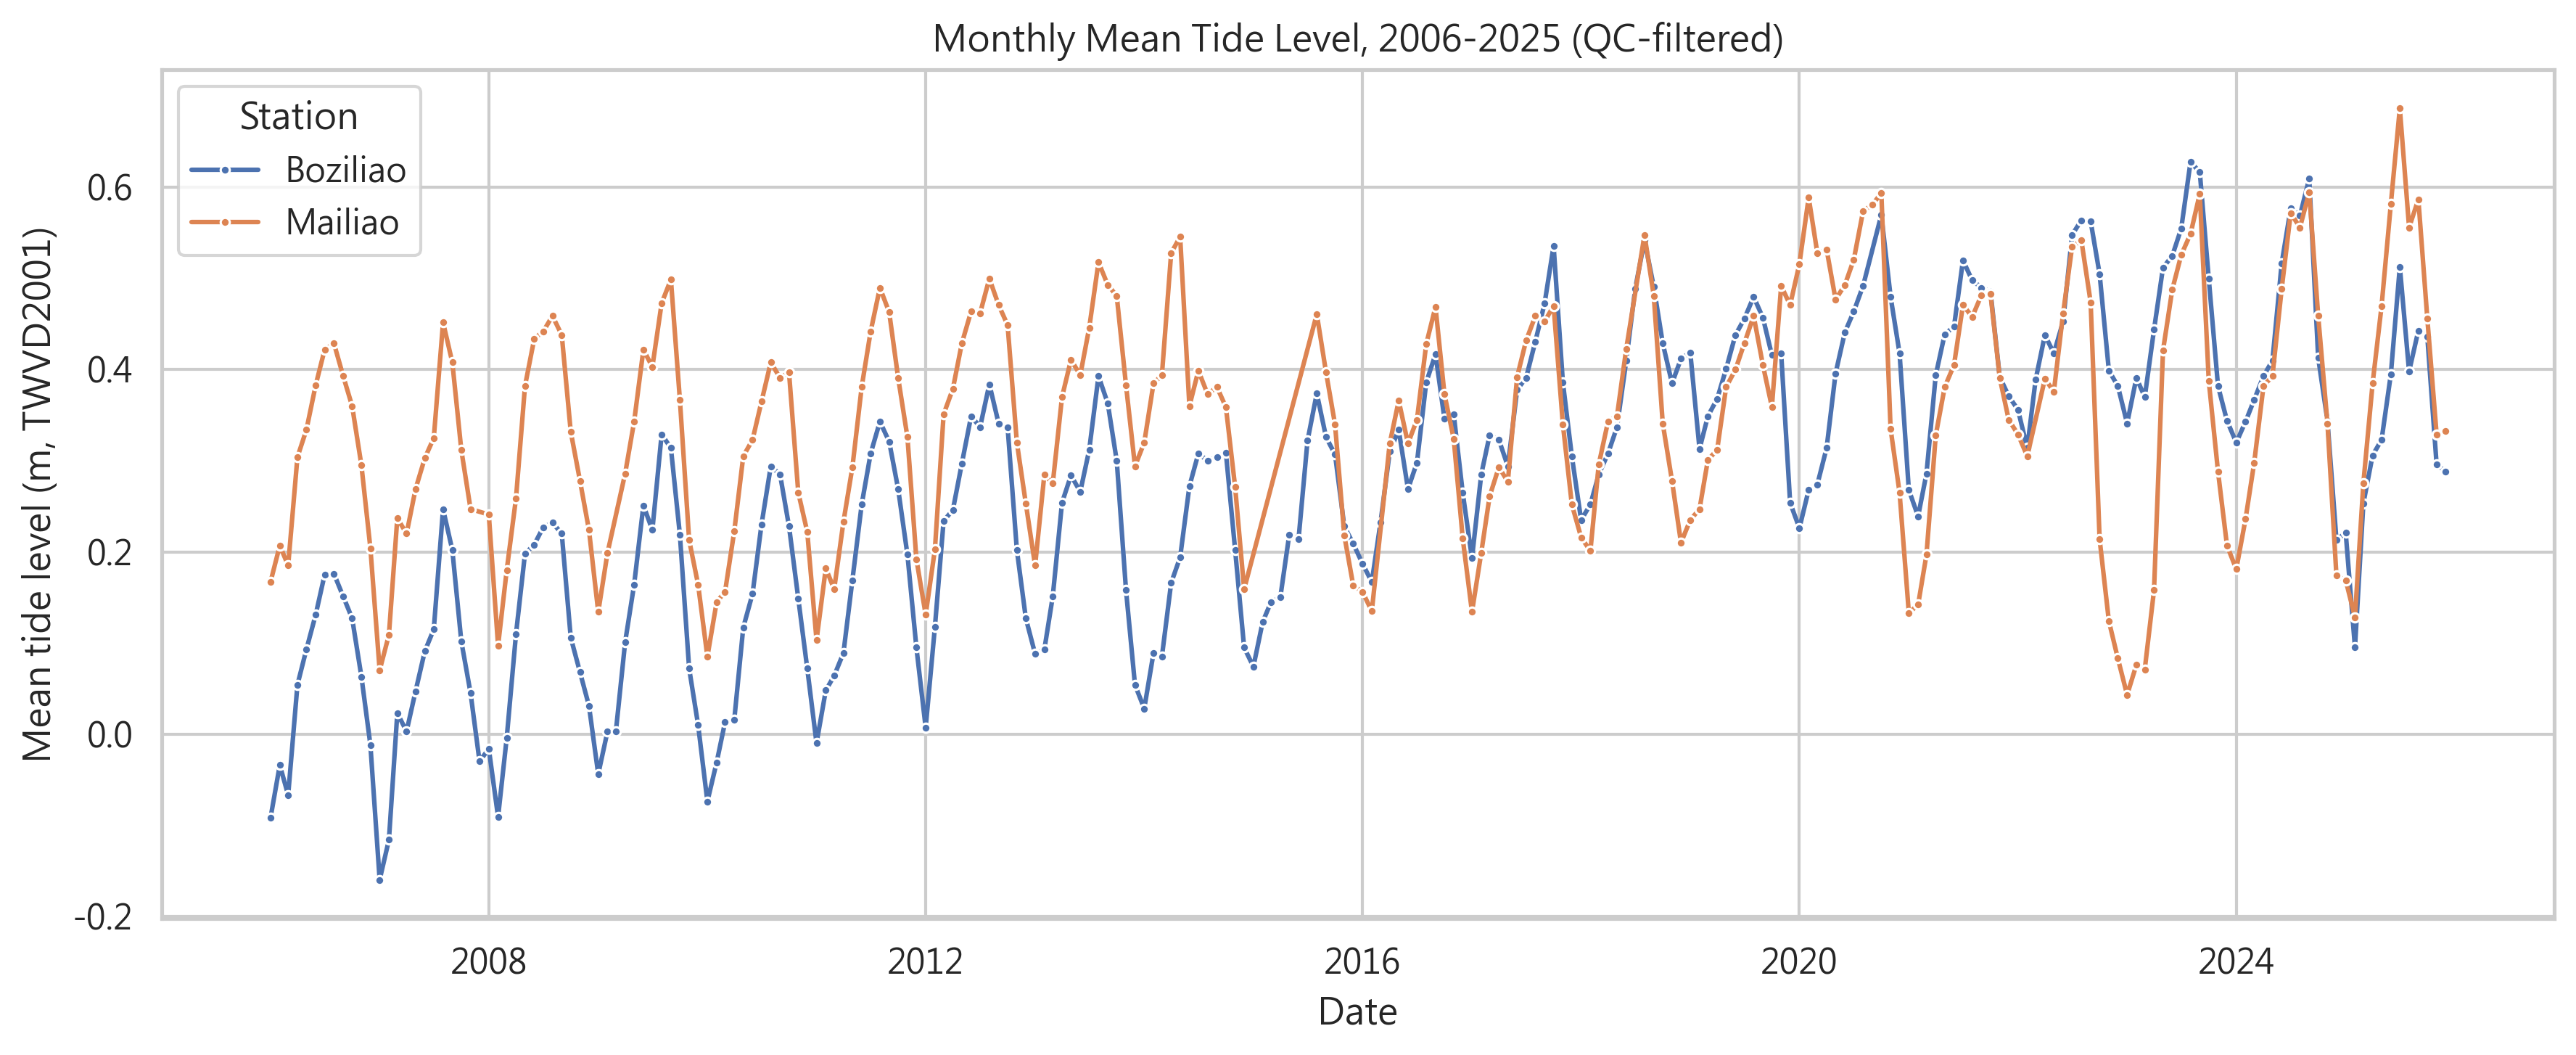
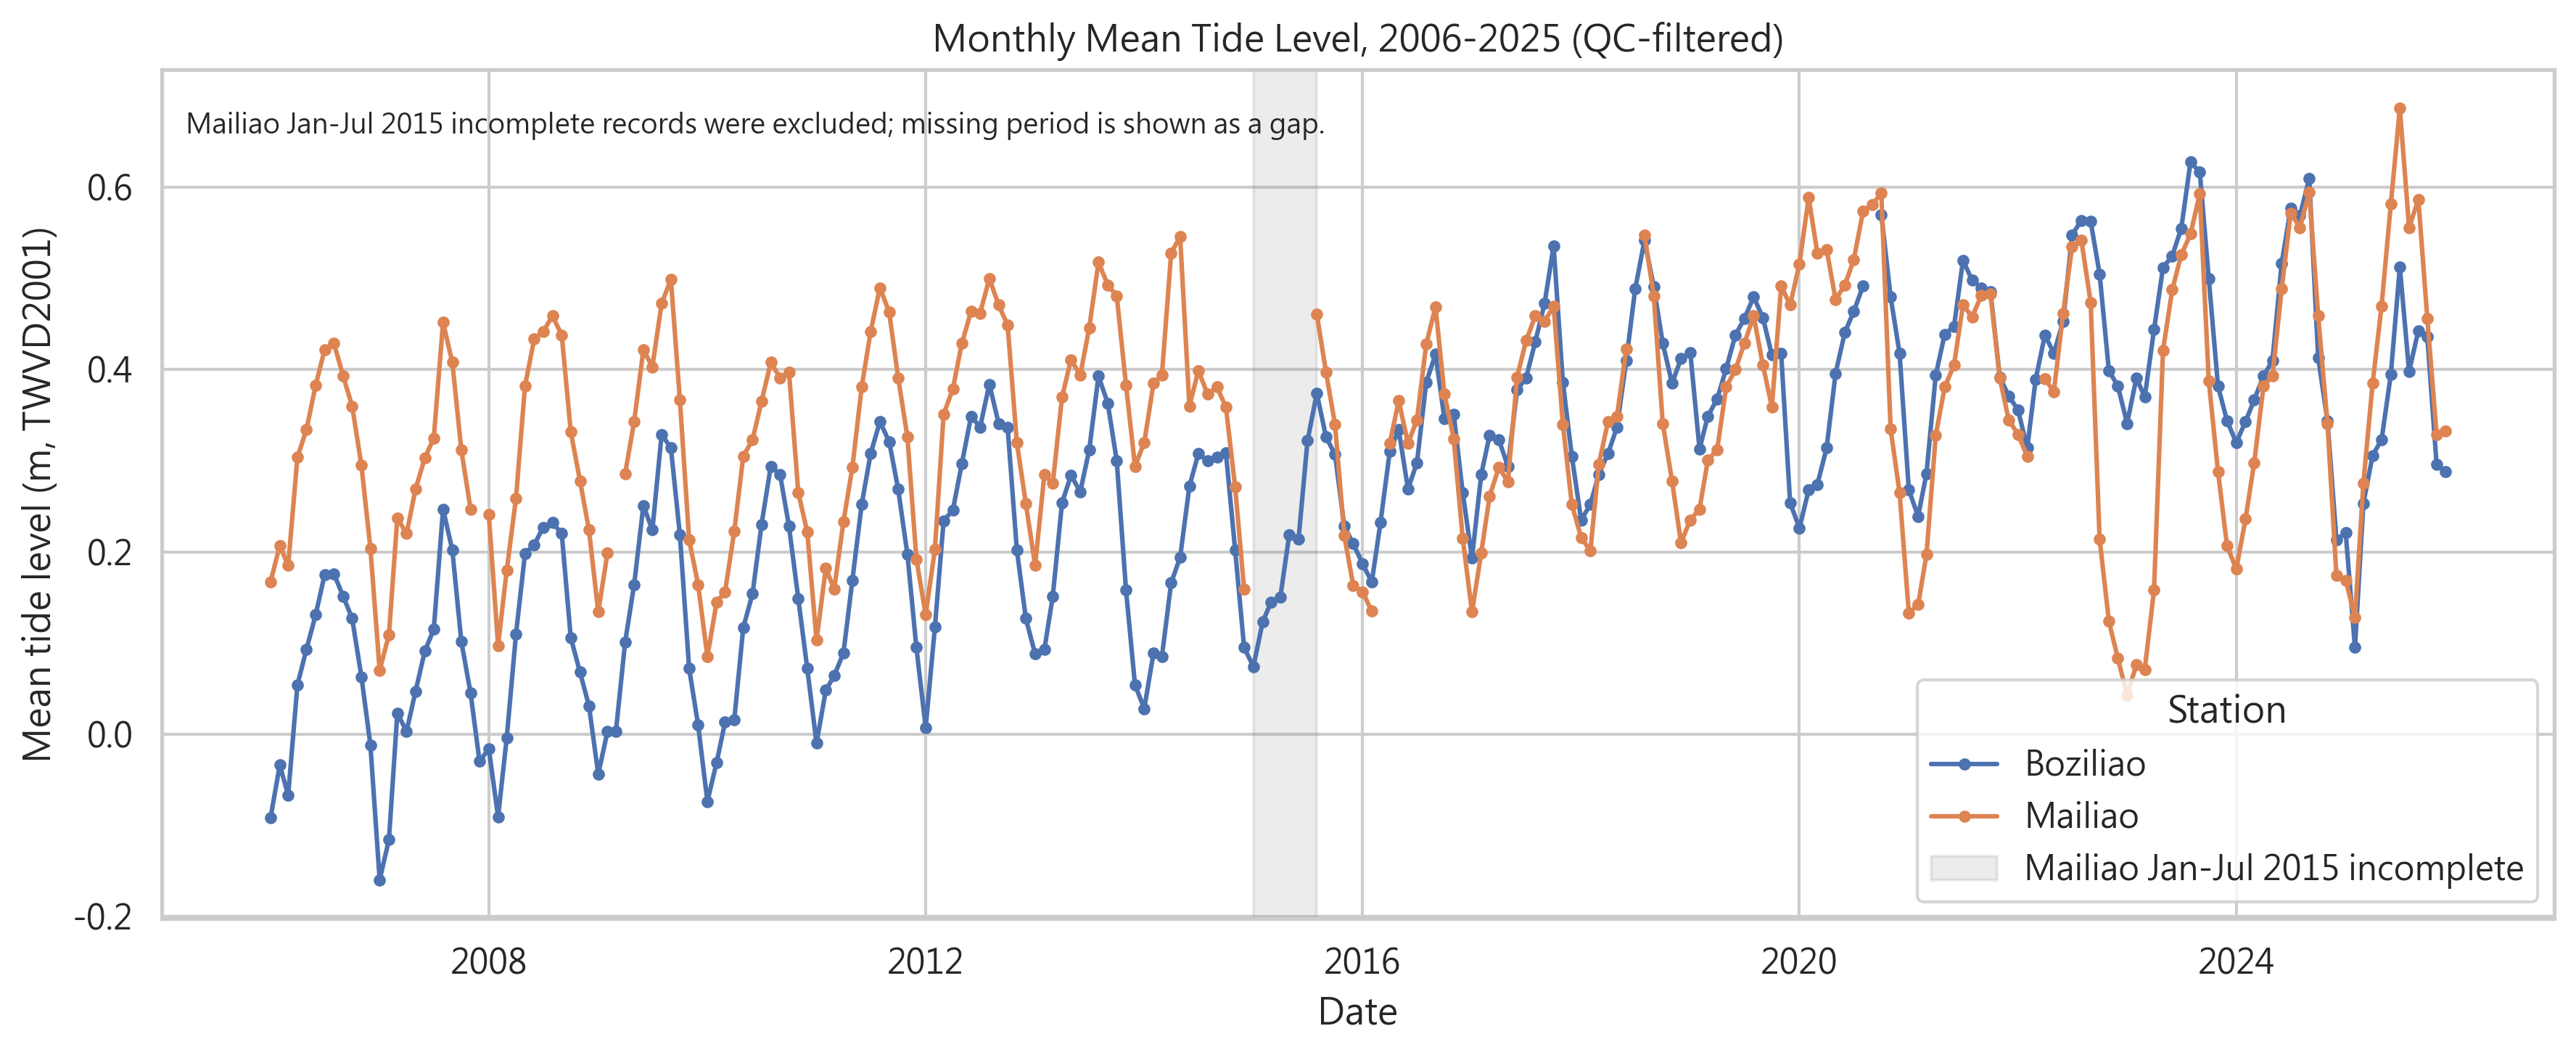
Show QC monthly gaps and refine histogram bins
Preserve the monthly date index for QC-filtered time series, show Mailiao Jan-Jul 2015 as a gap, add valid month counts, and use interpretable manual histogram bins for annual maximum high-water plots.

diff --git a/scripts/02_analyze_yunlin_tides.py b/scripts/02_analyze_yunlin_tides.py
@@ -140,7 +140,10 @@ def validate_inputs(
 
 
 def plot_eda(monthly_tide: pd.DataFrame, annual_tide: pd.DataFrame) -> None:
-    monthly_tide_qc = monthly_tide[monthly_tide["is_valid_monthly_mean_for_eda"]].copy()
+    monthly_plot_df = monthly_tide.copy()
+    incomplete_mask = ~monthly_plot_df["is_valid_monthly_mean_for_eda"]
+    monthly_plot_df.loc[incomplete_mask, "mean_tide_level"] = np.nan
+    monthly_analysis_df = monthly_tide[monthly_tide["is_valid_monthly_mean_for_eda"]].copy()
 
     plt.figure(figsize=(12, 5))
     sns.lineplot(
@@ -171,25 +174,41 @@ def plot_eda(monthly_tide: pd.DataFrame, annual_tide: pd.DataFrame) -> None:
     plt.legend(title="Station")
     save_fig("02_monthly_tide_boxplot_raw.png")
 
-    plt.figure(figsize=(12, 5))
-    sns.lineplot(
-        data=monthly_tide_qc,
-        x="date",
-        y="mean_tide_level",
-        hue="station_label",
-        marker="o",
-        linewidth=1.5,
-        markersize=3,
+    fig, ax = plt.subplots(figsize=(12, 5))
+    for station_label, group in monthly_plot_df.groupby("station_label"):
+        group = group.sort_values("date")
+        ax.plot(
+            group["date"],
+            group["mean_tide_level"],
+            marker="o",
+            linewidth=1.5,
+            markersize=3,
+            label=station_label,
+        )
+    ax.axvspan(
+        pd.Timestamp("2015-01-01"),
+        pd.Timestamp("2015-07-31"),
+        color="gray",
+        alpha=0.15,
+        label="Mailiao Jan-Jul 2015 incomplete",
     )
     plt.title("Monthly Mean Tide Level, 2006-2025 (QC-filtered)")
     plt.xlabel("Date")
     plt.ylabel("Mean tide level (m, TWVD2001)")
     plt.legend(title="Station")
+    plt.text(
+        0.01,
+        0.95,
+        "Mailiao Jan-Jul 2015 incomplete records were excluded; missing period is shown as a gap.",
+        transform=plt.gca().transAxes,
+        fontsize=9,
+        verticalalignment="top",
+    )
     save_fig("15_monthly_mean_tide_timeseries_qc.png")
 
     plt.figure(figsize=(10, 5))
     sns.boxplot(
-        data=monthly_tide_qc,
+        data=monthly_analysis_df,
         x="month",
         y="mean_tide_level",
         hue="station_label",
@@ -463,6 +482,32 @@ def write_incomplete_monthly_records(monthly_tide: pd.DataFrame) -> pd.DataFrame
         encoding="utf-8-sig",
     )
     return incomplete_records
+
+
+def write_valid_month_counts(monthly_tide: pd.DataFrame) -> pd.DataFrame:
+    monthly_counts = monthly_tide.copy()
+    monthly_counts["valid_for_monthly_eda"] = (
+        monthly_counts["is_valid_monthly_mean_for_eda"] & monthly_counts["mean_tide_level"].notna()
+    )
+    valid_month_counts = (
+        monthly_counts.groupby(["station_name", "station_label", "year"])
+        .agg(
+            valid_month_count=("valid_for_monthly_eda", "sum"),
+            incomplete_month_count=(
+                "data_quality_flag",
+                lambda values: (values == "partial_or_incomplete_record").sum(),
+            ),
+            missing_mean_tide_count=("mean_tide_level", lambda values: values.isna().sum()),
+        )
+        .reset_index()
+    )
+    valid_month_counts["meets_10_month_threshold"] = valid_month_counts["valid_month_count"] >= 10
+    valid_month_counts.to_csv(
+        TABLE_DIR / "valid_month_counts.csv",
+        index=False,
+        encoding="utf-8-sig",
+    )
+    return valid_month_counts
 
 
 def write_top_extreme_years(annual_tide: pd.DataFrame) -> pd.DataFrame:
@@ -828,6 +873,7 @@ def write_summary(
     summary_statistics: pd.DataFrame,
     monthly_outliers: pd.DataFrame,
     incomplete_monthly_records: pd.DataFrame,
+    valid_month_counts: pd.DataFrame,
     annual_outliers: pd.DataFrame,
     top_extremes: pd.DataFrame,
     mailiao_2018_monthly_check: pd.DataFrame,
@@ -869,6 +915,10 @@ def write_summary(
         incomplete_monthly_records.to_markdown(index=False)
         if not incomplete_monthly_records.empty
         else "No incomplete monthly records flagged.",
+        "",
+        "## Valid Monthly Record Counts",
+        "",
+        valid_month_counts.to_markdown(index=False),
         "",
         (
             "Mailiao 2015 Jan-Jul records are flagged as partial or incomplete monthly records "
@@ -930,6 +980,7 @@ def write_summary(
         "## Data Quality Notes",
         "",
         "- Raw monthly figures are retained for transparency and data-quality inspection. QC-filtered monthly figures exclude Mailiao Jan-Jul 2015 partial/incomplete records and are used as the main figures for monthly mean tide and seasonality interpretation.",
+        "- The QC-filtered monthly time series keeps the full monthly date index and sets Mailiao Jan-Jul 2015 mean tide levels to NaN, so the missing period appears as a line gap without interpolation or filling.",
         "- Monthly-mean and seasonality figures use QC-filtered data, while annual-extreme analyses retain the original annual maximum records.",
         "- The HHW-HAT plot highlights Mailiao 2018 as an influential extreme year.",
         "- Return level plots with log x-axis are recommended for hydrologic frequency interpretation.",
@@ -966,6 +1017,7 @@ def analyze() -> None:
     plot_eda(monthly_tide, annual_tide)
     monthly_outliers, annual_outliers = write_outlier_tables(monthly_tide, annual_tide)
     incomplete_monthly_records = write_incomplete_monthly_records(monthly_tide)
+    valid_month_counts = write_valid_month_counts(monthly_tide)
     plot_monthly_outliers(monthly_tide, monthly_outliers)
     top_extremes = write_top_extreme_years(annual_tide)
     mailiao_2018_monthly_check = write_mailiao_2018_monthly_check(monthly_tide)
@@ -979,6 +1031,7 @@ def analyze() -> None:
         summary_statistics,
         monthly_outliers,
         incomplete_monthly_records,
+        valid_month_counts,
         annual_outliers,
         top_extremes,
         mailiao_2018_monthly_check,

diff --git a/outputs/analysis_summary.md b/outputs/analysis_summary.md
@@ -42,6 +42,51 @@ The analysis uses relative water levels referenced to TWVD2001.
 | 麥寮潮位站          | Mailiao         |   2015 |       6 | 2015-06-01 00:00:00 |             1.022 |                        nan |                     nan |                    nan |                nan | partial_or_incomplete_record |
 | 麥寮潮位站          | Mailiao         |   2015 |       7 | 2015-07-01 00:00:00 |             1.352 |                        nan |                     nan |                    nan |                nan | partial_or_incomplete_record |
 
+## Valid Monthly Record Counts
+
+| station_name   | station_label   |   year |   valid_month_count |   incomplete_month_count |   missing_mean_tide_count | meets_10_month_threshold   |
+|:---------------|:----------------|-------:|--------------------:|-------------------------:|--------------------------:|:---------------------------|
+| 萡子寮潮位站         | Boziliao        |   2006 |                  12 |                        0 |                         0 | True                       |
+| 萡子寮潮位站         | Boziliao        |   2007 |                  12 |                        0 |                         0 | True                       |
+| 萡子寮潮位站         | Boziliao        |   2008 |                  12 |                        0 |                         0 | True                       |
+| 萡子寮潮位站         | Boziliao        |   2009 |                  12 |                        0 |                         0 | True                       |
+| 萡子寮潮位站         | Boziliao        |   2010 |                  12 |                        0 |                         0 | True                       |
+| 萡子寮潮位站         | Boziliao        |   2011 |                  12 |                        0 |                         0 | True                       |
+| 萡子寮潮位站         | Boziliao        |   2012 |                  12 |                        0 |                         0 | True                       |
+| 萡子寮潮位站         | Boziliao        |   2013 |                  12 |                        0 |                         0 | True                       |
+| 萡子寮潮位站         | Boziliao        |   2014 |                  12 |                        0 |                         0 | True                       |
+| 萡子寮潮位站         | Boziliao        |   2015 |                  12 |                        0 |                         0 | True                       |
+| 萡子寮潮位站         | Boziliao        |   2016 |                  12 |                        0 |                         0 | True                       |
+| 萡子寮潮位站         | Boziliao        |   2017 |                  12 |                        0 |                         0 | True                       |
+| 萡子寮潮位站         | Boziliao        |   2018 |                  12 |                        0 |                         0 | True                       |
+| 萡子寮潮位站         | Boziliao        |   2019 |                  12 |                        0 |                         0 | True                       |
+| 萡子寮潮位站         | Boziliao        |   2020 |                  11 |                        0 |                         1 | True                       |
+| 萡子寮潮位站         | Boziliao        |   2021 |                  12 |                        0 |                         0 | True                       |
+| 萡子寮潮位站         | Boziliao        |   2022 |                  12 |                        0 |                         0 | True                       |
+| 萡子寮潮位站         | Boziliao        |   2023 |                  12 |                        0 |                         0 | True                       |
+| 萡子寮潮位站         | Boziliao        |   2024 |                  12 |                        0 |                         0 | True                       |
+| 萡子寮潮位站         | Boziliao        |   2025 |                  12 |                        0 |                         0 | True                       |
+| 麥寮潮位站          | Mailiao         |   2006 |                  12 |                        0 |                         0 | True                       |
+| 麥寮潮位站          | Mailiao         |   2007 |                  11 |                        0 |                         1 | True                       |
+| 麥寮潮位站          | Mailiao         |   2008 |                  12 |                        0 |                         0 | True                       |
+| 麥寮潮位站          | Mailiao         |   2009 |                  11 |                        0 |                         1 | True                       |
+| 麥寮潮位站          | Mailiao         |   2010 |                  12 |                        0 |                         0 | True                       |
+| 麥寮潮位站          | Mailiao         |   2011 |                  12 |                        0 |                         0 | True                       |
+| 麥寮潮位站          | Mailiao         |   2012 |                  12 |                        0 |                         0 | True                       |
+| 麥寮潮位站          | Mailiao         |   2013 |                  12 |                        0 |                         0 | True                       |
+| 麥寮潮位站          | Mailiao         |   2014 |                  12 |                        0 |                         0 | True                       |
+| 麥寮潮位站          | Mailiao         |   2015 |                   5 |                        7 |                         1 | False                      |
+| 麥寮潮位站          | Mailiao         |   2016 |                  11 |                        0 |                         1 | True                       |
+| 麥寮潮位站          | Mailiao         |   2017 |                  12 |                        0 |                         0 | True                       |
+| 麥寮潮位站          | Mailiao         |   2018 |                  11 |                        0 |                         1 | True                       |
+| 麥寮潮位站          | Mailiao         |   2019 |                  12 |                        0 |                         0 | True                       |
+| 麥寮潮位站          | Mailiao         |   2020 |                  12 |                        0 |                         0 | True                       |
+| 麥寮潮位站          | Mailiao         |   2021 |                  12 |                        0 |                         0 | True                       |
+| 麥寮潮位站          | Mailiao         |   2022 |                  11 |                        0 |                         1 | True                       |
+| 麥寮潮位站          | Mailiao         |   2023 |                  12 |                        0 |                         0 | True                       |
+| 麥寮潮位站          | Mailiao         |   2024 |                  12 |                        0 |                         0 | True                       |
+| 麥寮潮位站          | Mailiao         |   2025 |                  12 |                        0 |                         0 | True                       |
+
 Mailiao 2015 Jan-Jul records are flagged as partial or incomplete monthly records because several key monthly tide statistics are missing. Therefore, these months are excluded from the QC version of monthly mean tide and seasonality plots, but the original data are retained for transparency.
 
 ## Annual High-Water IQR Outliers
@@ -168,6 +213,7 @@ Histogram bin edges were manually selected using interpretable water-level inter
 ## Data Quality Notes
 
 - Raw monthly figures are retained for transparency and data-quality inspection. QC-filtered monthly figures exclude Mailiao Jan-Jul 2015 partial/incomplete records and are used as the main figures for monthly mean tide and seasonality interpretation.
+- The QC-filtered monthly time series keeps the full monthly date index and sets Mailiao Jan-Jul 2015 mean tide levels to NaN, so the missing period appears as a line gap without interpolation or filling.
 - Monthly-mean and seasonality figures use QC-filtered data, while annual-extreme analyses retain the original annual maximum records.
 - The HHW-HAT plot highlights Mailiao 2018 as an influential extreme year.
 - Return level plots with log x-axis are recommended for hydrologic frequency interpretation.

diff --git a/README.md b/README.md
@@ -176,6 +176,7 @@ Table outputs:
 - `outputs/tables/sensitivity_data_length.csv`
 - `outputs/tables/monthly_outliers.csv`
 - `outputs/tables/incomplete_monthly_records.csv`
+- `outputs/tables/valid_month_counts.csv`
 - `outputs/tables/annual_outliers.csv`
 - `outputs/tables/top_extreme_years.csv`
 - `outputs/tables/mailiao_2018_monthly_check.csv`
@@ -191,6 +192,7 @@ EDA:
 
 - raw monthly mean tide time series and raw monthly tide boxplot show all original monthly records
 - QC-filtered monthly mean tide and seasonality figures exclude flagged incomplete monthly records
+- QC-filtered monthly time series preserves the full monthly date index and shows excluded Mailiao 2015 Jan-Jul records as a line gap
 - annual maximum high-water time series
 - annual `hhw_minus_hat` time series for preliminary interpretation of observed high water relative to astronomical tide
 - IQR outlier checks for monthly `mean_tide_level` and annual `highest_high_water_level`